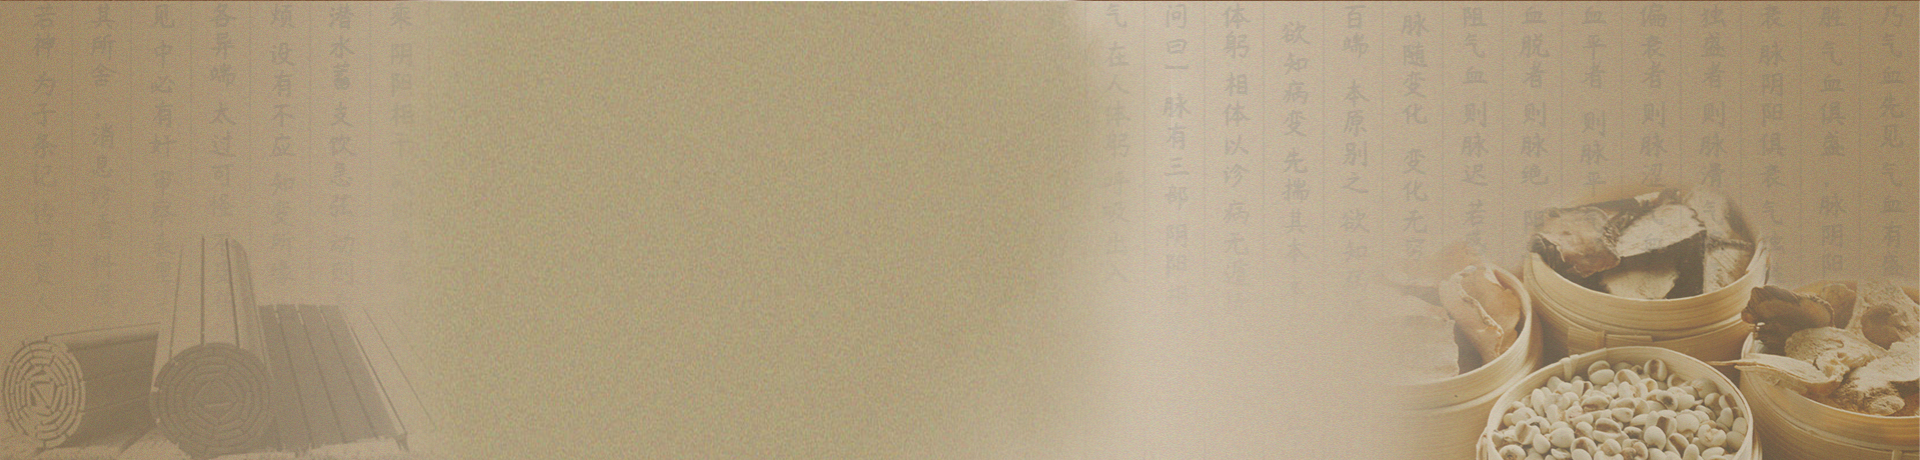
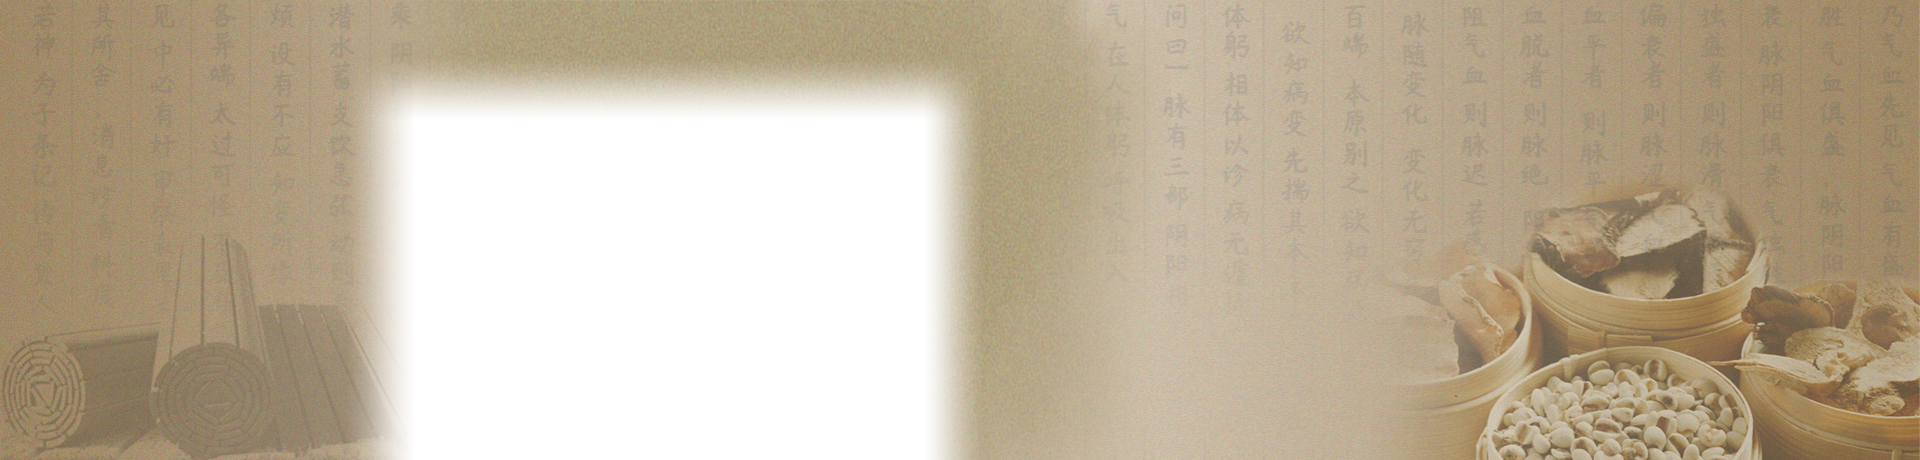
修改分院介绍banner结构

Changed region(s): [[0.1875, 0.1522, 0.5312, 1.0]]

diff --git a/page/hospital/victory.html b/page/hospital/victory.html
@@ -16,45 +16,47 @@
         <div class="headerWrap"></div>
         <div class="posBoxWrap"></div>
         <div class="maxImage">
-            <div class="max_img_content">
-                <div class="Breadcrumb">
-                    <span>您现在的位置:  </span>
-                    <span class="black" id="homePage">首页 ></span>
-                    <span id="return">胜利分院 </span>
-                </div>
-                <div class="layOut_panel">
-                    <div class="l_img">
-                        <img src="/images/slfy.png" alt="">
+            <div class="dm-second-mask">
+                <div class="max_img_content">
+                    <div class="Breadcrumb">
+                        <span>您现在的位置:  </span>
+                        <span class="black" id="homePage">首页 ></span>
+                        <span id="return">胜利分院 </span>
                     </div>
-                    <div class="r_cont_wrap">
-                        <div class="flex">
-                            <div class="preview">
-                                <i class="icon top_icon"></i>
-                                <p class="text" id="previewDetail">查看详细</p>
-                                <i class="icon bottom_icon"></i>
-                            </div>
-                            <div class="article">
-                                <p class="column">山西省中医院康复科是集医疗、科研、教学于一体的多功能临床科室，是省内三级甲等医院中临床规模最大，设备最齐全，技术实力最强的康复是省内三级甲等医院中临床规模最大，设备最齐全，技术实力最强的康复</p>
-                            </div>
-                            <div class="tag">
-                                <div class="text">
-                                    <div class="topBack"></div>
-                                    胜利分院
-                                    <div class="bottomBack">
-                                        <span class="dept"></span>
+                    <div class="layOut_panel">
+                        <div class="l_img">
+                            <!-- <img src="/images/1624356118810.jpg" alt=""> -->
+                        </div>
+                        <div class="r_cont_wrap">
+                            <div class="flex">
+                                <div class="preview">
+                                    <i class="icon top_icon"></i>
+                                    <p class="text" id="previewDetail">查看详细</p>
+                                    <i class="icon bottom_icon"></i>
+                                </div>
+                                <div class="article">
+                                    <p class="column">山西省中医院康复科是集医疗、科研、教学于一体的多功能临床科室，是省内三级甲等医院中临床规模最大，设备最齐全，技术实力最强的康复是省内三级甲等医院中临床规模最大，设备最齐全，技术实力最强的康复</p>
+                                </div>
+                                <div class="tag">
+                                    <div class="text">
+                                        <div class="topBack"></div>
+                                        胜利分院
+                                        <div class="bottomBack">
+                                            <span class="dept"></span>
+                                        </div>
                                     </div>
                                 </div>
                             </div>
-                        </div>
-                        <div class="rowColumn">
-                            <div class="box">
-                                <p>预约挂号</p>
-                            </div>
-                            <div class="box" name='d_czdt'>
-                                <p>出诊信息</p>
-                            </div>
-                            <div class="box" name='d_yywz'>
-                                <p>医院位置</p>
+                            <div class="rowColumn">
+                                <div class="box">
+                                    <p>预约挂号</p>
+                                </div>
+                                <div class="box" name='d_czdt'>
+                                    <p>出诊信息</p>
+                                </div>
+                                <div class="box" name='d_yywz'>
+                                    <p>医院位置</p>
+                                </div>
                             </div>
                         </div>
                     </div>

diff --git a/page/department/department.html b/page/department/department.html
@@ -308,7 +308,9 @@
                                 乳腺科
                             </p>
                         </div>
-                        <div class="label none"></div>
+                        <div class="fake_item"></div>
+                        <div class="fake_item"></div>
+                        <div class="fake_item"></div>
                     </div>
                 </div>
                 <div class="boxContent" id='yjks'>
@@ -551,7 +553,9 @@
                                 乳腺科
                             </p>
                         </div>
-                        <div class="label none"></div>
+                        <div class="fake_item"></div>
+                        <div class="fake_item"></div>
+                        <div class="fake_item"></div>
                     </div>
                 </div>
                 <div class="boxContent detail" id='tszl'>
@@ -664,9 +668,9 @@
                                 乳腺科治疗特色
                             </p>
                         </div>
-                        <div class="label none"></div>
-                        <div class="label none"></div>
-                        <div class="label none"></div>
+                        <div class="fake_item"></div>
+                        <div class="fake_item"></div>
+                        <div class="fake_item"></div>
                     </div>
                 </div>
                 <div class="boxContent detail" id='ysbz'>
@@ -779,9 +783,9 @@
                                 乳腺科治疗特色
                             </p>
                         </div>
-                        <div class="label none"></div>
-                        <div class="label none"></div>
-                        <div class="label none"></div>
+                        <div class="fake_item"></div>
+                        <div class="fake_item"></div>
+                        <div class="fake_item"></div>
                     </div>
                 </div>
                 <div class="imgList panel">

diff --git a/css/index.css b/css/index.css
@@ -316,16 +316,15 @@
     box-shadow: 1px 0px 10px rgb(34 23 20 / 20%);
     border-radius: 5px;
     cursor: pointer;
+    height: 116px;
+    box-sizing: border-box;
   }
   .wrap .center .News .right_box .cont .box .time {
     font-size: 22px;
     font-weight: bold;
     color: #999999;
     margin-bottom: 10px;
-  }
-  .wrap .center .News .right_box .cont .box .text {
-    font-weight: 18px;
-    font-size: #333333;
+    font-family: 'Arial Negreta', 'Arial Normal', 'Arial';
   }
   .wrap .center .News .right_box .cont .box:hover .time,
   .wrap .center .News .right_box .cont .box:hover .text {
@@ -338,6 +337,7 @@
     display: -webkit-box;
     -webkit-box-orient: vertical;
     -webkit-line-clamp: 2;
+    font-weight: 18px;
   }
   .wrap .center .department .row_title {
     display: flex;
@@ -480,7 +480,6 @@
     margin-top: 15px;
     background: url('../images/depart_icon.png') no-repeat;
     cursor: pointer;
-    float: left;
   }
   .wrap .center .department .cont .departList .uls .fake_item{
     background-color: #52B948;

diff --git a/css/departmentDetail.css b/css/departmentDetail.css
@@ -17,9 +17,16 @@
   .wrap .maxImage{
     width: 100%;
     height: 460px;
-    background: url('../images/bannerTwo.jpg') no-repeat;
-    /* background-size: 100% 100%; */
-    background-size: cover;
+    background: url('../images/微信图片_20210623091628.jpg') no-repeat!important;
+    /* text-align: right; */
+    background-position: 27% 60px!important;
+    background-color: #b1a27d!important;
+    color: #fff;
+  }
+  .wrap .maxImage .dm-second-mask{
+    height: 100%;
+    background: url('/images/bannerTwo.png');
+    background-repeat: no-repeat;
     background-position: center;
   }
   .wrap .maxImage .max_img_content{

diff --git a/css/department.css b/css/department.css
@@ -220,6 +220,10 @@
     display: flex;
     align-items: center;
   }
+  .wrap .center .department .boxContent .label_box .fake_item{
+    flex: 0 0 196px;
+    height: 0px;
+  }
   .wrap .center .department .boxContent .label.none{
     visibility: hidden!important;
   }
